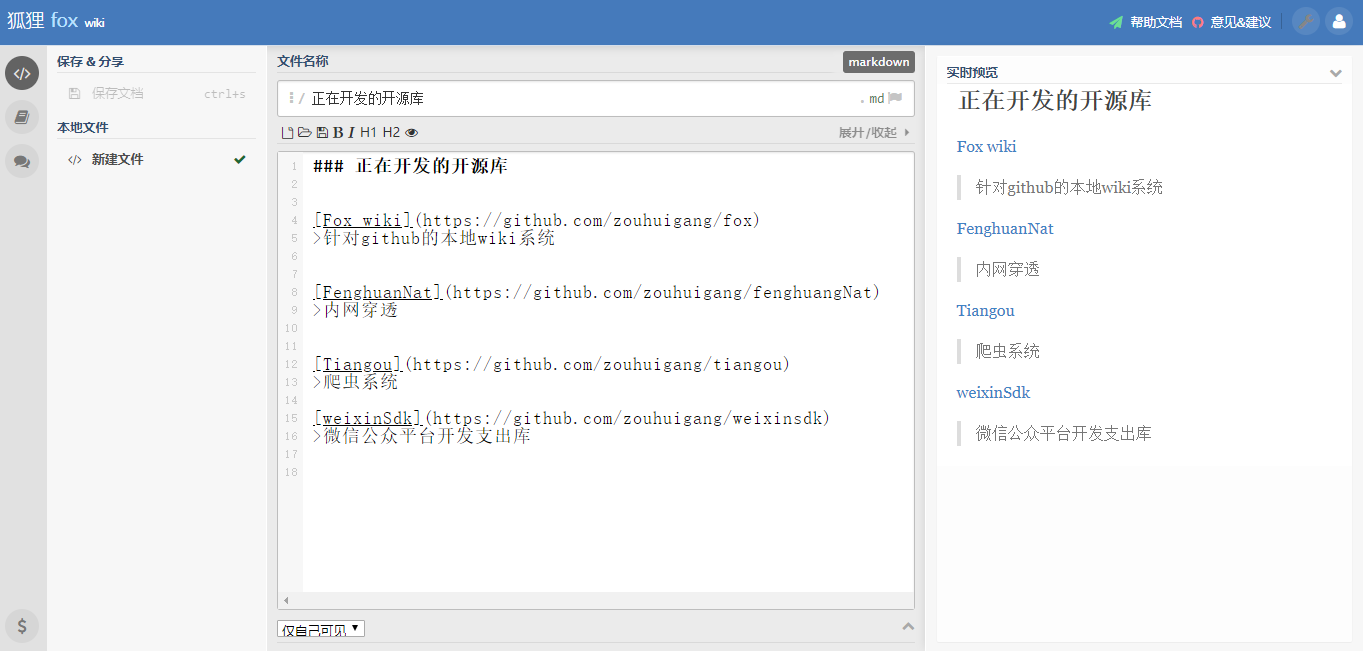
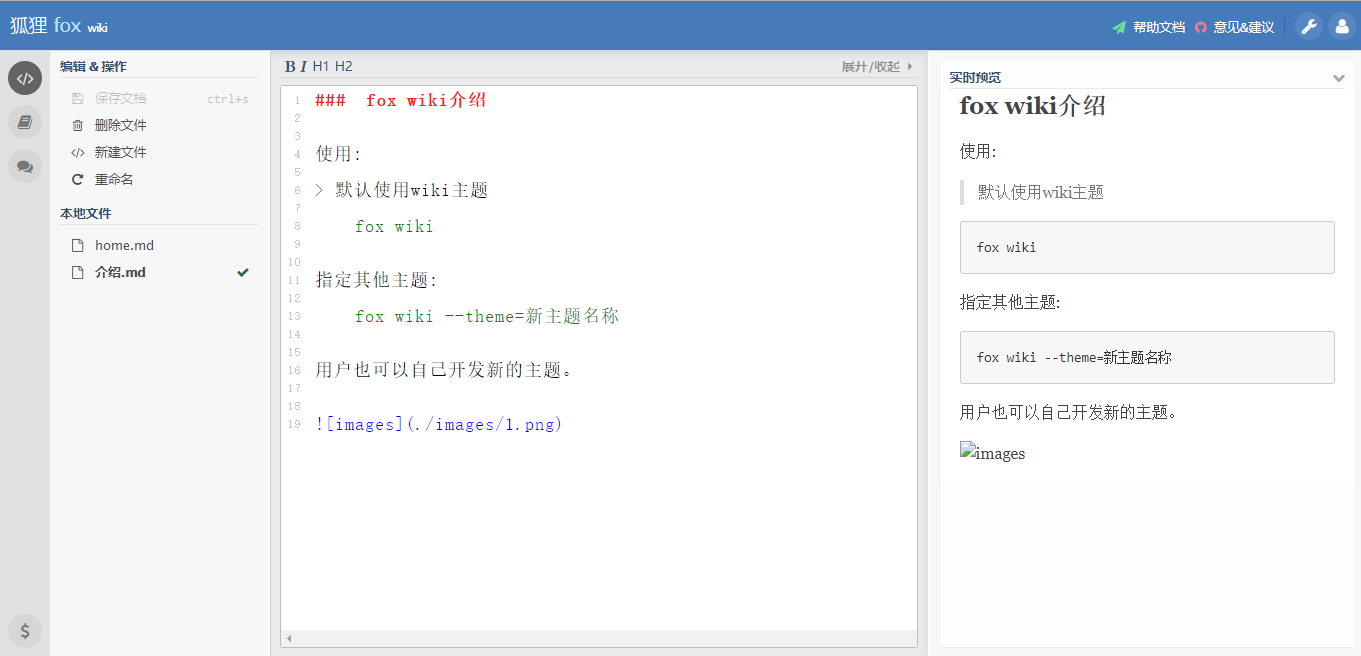
完善功能，已初步可以使用

diff --git a/http/controller/md.go b/http/controller/md.go
@@ -5,12 +5,15 @@ import (
 	"fox/system"
 	"io/ioutil"
 	"path"
+	"path/filepath"
 	"time"
 	// "fmt"
 	"fox/inits/parse"
 	"fox/util"
 	"html/template"
+	"io"
 	"os"
+	"strings"
 
 	"github.com/labstack/echo"
 	"github.com/microcosm-cc/bluemonday"
@@ -36,6 +39,9 @@ func (this *MdController) RegisterRoute(g *echo.Group) {
 	g.GET("/", this.Editor)
 	g.POST("/make/file", this.mk)
 	g.POST("/markdown/info", this.mdInfo)
+	g.POST("/markdown/save", this.mdSave)
+	g.POST("/markdown/delete", this.mdDelete)
+	g.POST("/markdown/rename", this.mdRename)
 }
 
 //文件列表
@@ -84,7 +90,7 @@ func scan(rootPath string) (error, []*File_list) { //扫描文件
 		cur_file.Dir = cur_f.Dir
 		cur_file.Path = cur_f.Path
 		cur_file.Ext = cur_f.Ext
-		cur_file.Name = cur_f.Name
+		cur_file.Name = strings.TrimSuffix(cur_f.Name, cur_f.Ext)
 		cur_file.Size = cur_f.Size
 		cur_file.CreatedAt = time.Now()
 		cur_file.ModTime = cur_f.ModTime
@@ -184,5 +190,101 @@ func (this *MdController) mk(ctx echo.Context) error {
 		return system.ResponeJson(ctx, system.ErrUnknown, data)
 	}
 
+	return system.ResponeJson(ctx, system.ErrOk, data)
+}
+
+/*
+const (
+        O_RDONLY int = syscall.O_RDONLY // 只读打开文件和os.Open()同义
+        O_WRONLY int = syscall.O_WRONLY // 只写打开文件
+        O_RDWR   int = syscall.O_RDWR   // 读写方式打开文件
+        O_APPEND int = syscall.O_APPEND // 当写的时候使用追加模式到文件末尾
+        O_CREATE int = syscall.O_CREAT  // 如果文件不存在，此案创建
+        O_EXCL   int = syscall.O_EXCL   // 和O_CREATE一起使用, 只有当文件不存在时才创建
+        O_SYNC   int = syscall.O_SYNC   // 以同步I/O方式打开文件，直接写入硬盘.
+        O_TRUNC  int = syscall.O_TRUNC  // 如果可以的话，当打开文件时先清空文件
+)
+*/
+//写入内容
+func (MdController) mdSave(ctx echo.Context) error {
+	data := map[string]interface{}{}
+	fileName := ctx.FormValue("fileName")
+	content := ctx.FormValue("content")
+
+	if fileName == "" {
+		return system.ResponeJson(ctx, system.ErrUnknown, data, "文件路径不能为空")
+	}
+
+	//检测文件是否存在
+	if !zfile.IsFileExist(fileName) {
+		return system.ResponeJson(ctx, system.ErrUnknown, data, "文件不存在")
+	}
+
+	f, err := os.OpenFile(fileName, os.O_RDWR|os.O_CREATE|os.O_TRUNC, 0666) //打开文件
+	if err != nil {
+		return system.ResponeJson(ctx, system.ErrUnknown, data, err.Error())
+	}
+
+	defer f.Close()
+
+	//写入文件
+	n, err := io.WriteString(f, content)
+	if err != nil {
+		return system.ResponeJson(ctx, system.ErrUnknown, data, err.Error())
+	}
+
+	data["n"] = n //字节数
+	return system.ResponeJson(ctx, system.ErrOk, data)
+}
+
+//删除文件
+func (MdController) mdDelete(ctx echo.Context) error {
+	data := map[string]interface{}{}
+	fileName := ctx.FormValue("fileName")
+
+	if fileName == "" {
+		return system.ResponeJson(ctx, system.ErrUnknown, data, "文件路径不能为空")
+	}
+
+	//检测文件是否存在
+	if !zfile.IsFileExist(fileName) {
+		return system.ResponeJson(ctx, system.ErrUnknown, data, "文件不存在")
+	}
+
+	//写入文件
+	err := os.Remove(fileName)
+	if err != nil {
+		return system.ResponeJson(ctx, system.ErrUnknown, data, "文件删除失败"+err.Error())
+	}
+	return system.ResponeJson(ctx, system.ErrOk, data)
+}
+
+//重命名
+func (MdController) mdRename(ctx echo.Context) error {
+	data := map[string]interface{}{}
+	fileName := ctx.FormValue("fileName")
+	newName := ctx.FormValue("newName")
+
+	if fileName == "" {
+		return system.ResponeJson(ctx, system.ErrUnknown, data, "文件路径不能为空")
+	}
+
+	//检测文件是否存在
+	if !zfile.IsFileExist(fileName) {
+		return system.ResponeJson(ctx, system.ErrUnknown, data, "文件不存在")
+	}
+
+	if newName == "" {
+		return system.ResponeJson(ctx, system.ErrUnknown, data, "新文件名不能为空")
+	}
+
+	mFilePath := filepath.Dir(fileName)
+	newFileName := path.Join(mFilePath, newName+".md")
+
+	//写入文件
+	err := os.Rename(fileName, newFileName)
+	if err != nil {
+		return system.ResponeJson(ctx, system.ErrUnknown, data, "文件重命名失败"+err.Error())
+	}
 	return system.ResponeJson(ctx, system.ErrOk, data)
 }
